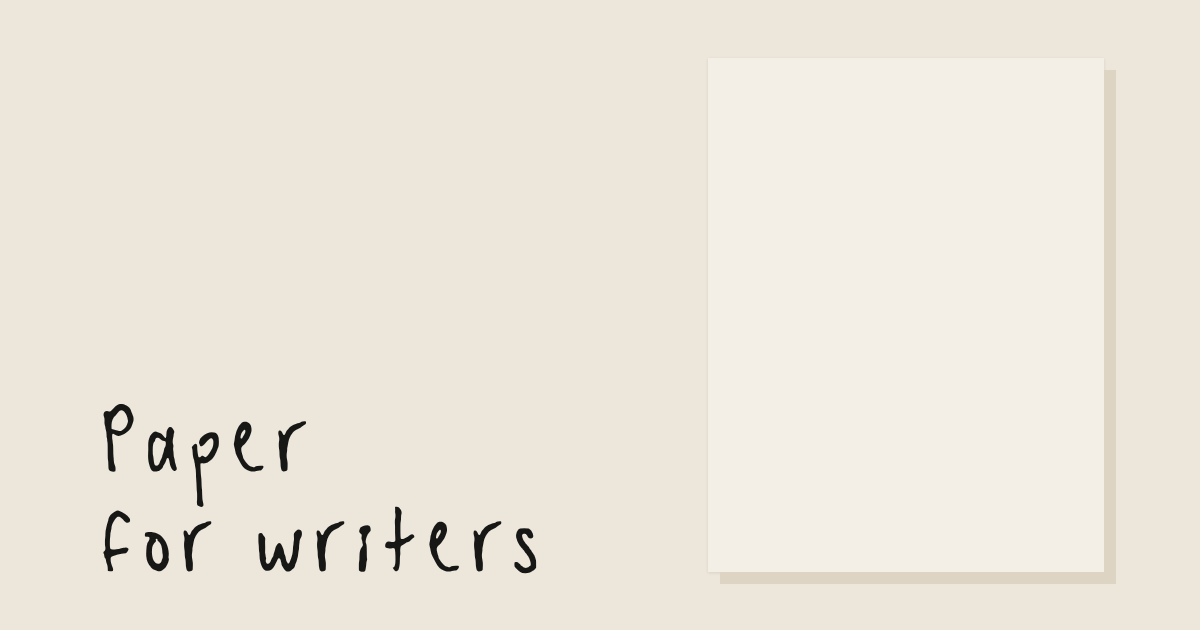
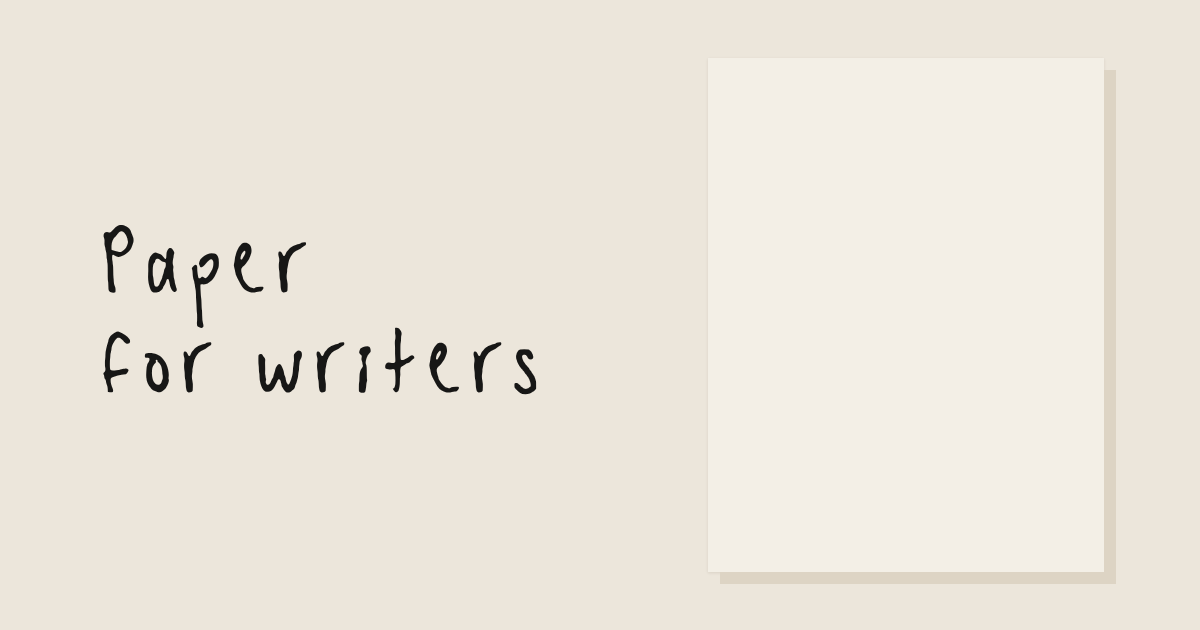
Link preview: "Paper / for writers" centred on the sheet's height
Claude-Session: https://claude.ai/code/session_01GtdkSYJLahZBiaVRCGKpMt

diff --git a/app/web/download.html b/app/web/download.html
@@ -4,7 +4,7 @@
 <meta charset="utf-8">
 <meta name="viewport" content="width=device-width, initial-scale=1">
 <title>Paper App for Mac</title>
-<!-- the link preview in Messages, Slack and the like: a blank sheet on the right of the desk (a flat offset shadow behind it), "Paper / for writers" handwritten at the bottom left -->
+<!-- the link preview in Messages, Slack and the like: a blank sheet on the right of the desk (a flat offset shadow behind it), "Paper / for writers" handwritten on the left, level with the middle of the sheet -->
 <meta name="description" content="A surface for writers.">
 <meta property="og:type" content="website">
 <meta property="og:site_name" content="Paper">
@@ -14,7 +14,7 @@
 <meta property="og:image" content="https://paperwrite.space/assets/og.png">
 <meta property="og:image:width" content="1200">
 <meta property="og:image:height" content="630">
-<meta property="og:image:alt" content="A blank sheet of paper on the right of a desk, with &quot;Paper for writers&quot; handwritten at the bottom left">
+<meta property="og:image:alt" content="A blank sheet of paper on the right of a desk, with &quot;Paper for writers&quot; handwritten on the left">
 <meta name="twitter:card" content="summary_large_image">
 <meta name="theme-color" content="#f3efe6">
 <link rel="icon" type="image/png" href="assets/favicon.png">

diff --git a/app/index.html b/app/index.html
@@ -4,7 +4,7 @@
 <meta charset="utf-8">
 <meta name="viewport" content="width=device-width, initial-scale=1">
 <title>Paper</title>
-<!-- the link preview in Messages, Slack and the like: a blank sheet on the right of the desk (a flat offset shadow behind it), "Paper / for writers" handwritten at the bottom left -->
+<!-- the link preview in Messages, Slack and the like: a blank sheet on the right of the desk (a flat offset shadow behind it), "Paper / for writers" handwritten on the left, level with the middle of the sheet -->
 <meta name="description" content="A surface for writers.">
 <meta property="og:type" content="website">
 <meta property="og:site_name" content="Paper">
@@ -14,7 +14,7 @@
 <meta property="og:image" content="https://paperwrite.space/assets/og.png">
 <meta property="og:image:width" content="1200">
 <meta property="og:image:height" content="630">
-<meta property="og:image:alt" content="A blank sheet of paper on the right of a desk, with &quot;Paper for writers&quot; handwritten at the bottom left">
+<meta property="og:image:alt" content="A blank sheet of paper on the right of a desk, with &quot;Paper for writers&quot; handwritten on the left">
 <meta name="twitter:card" content="summary_large_image">
 <meta name="theme-color" content="#f3efe6">
 <meta name="apple-mobile-web-app-capable" content="yes">
